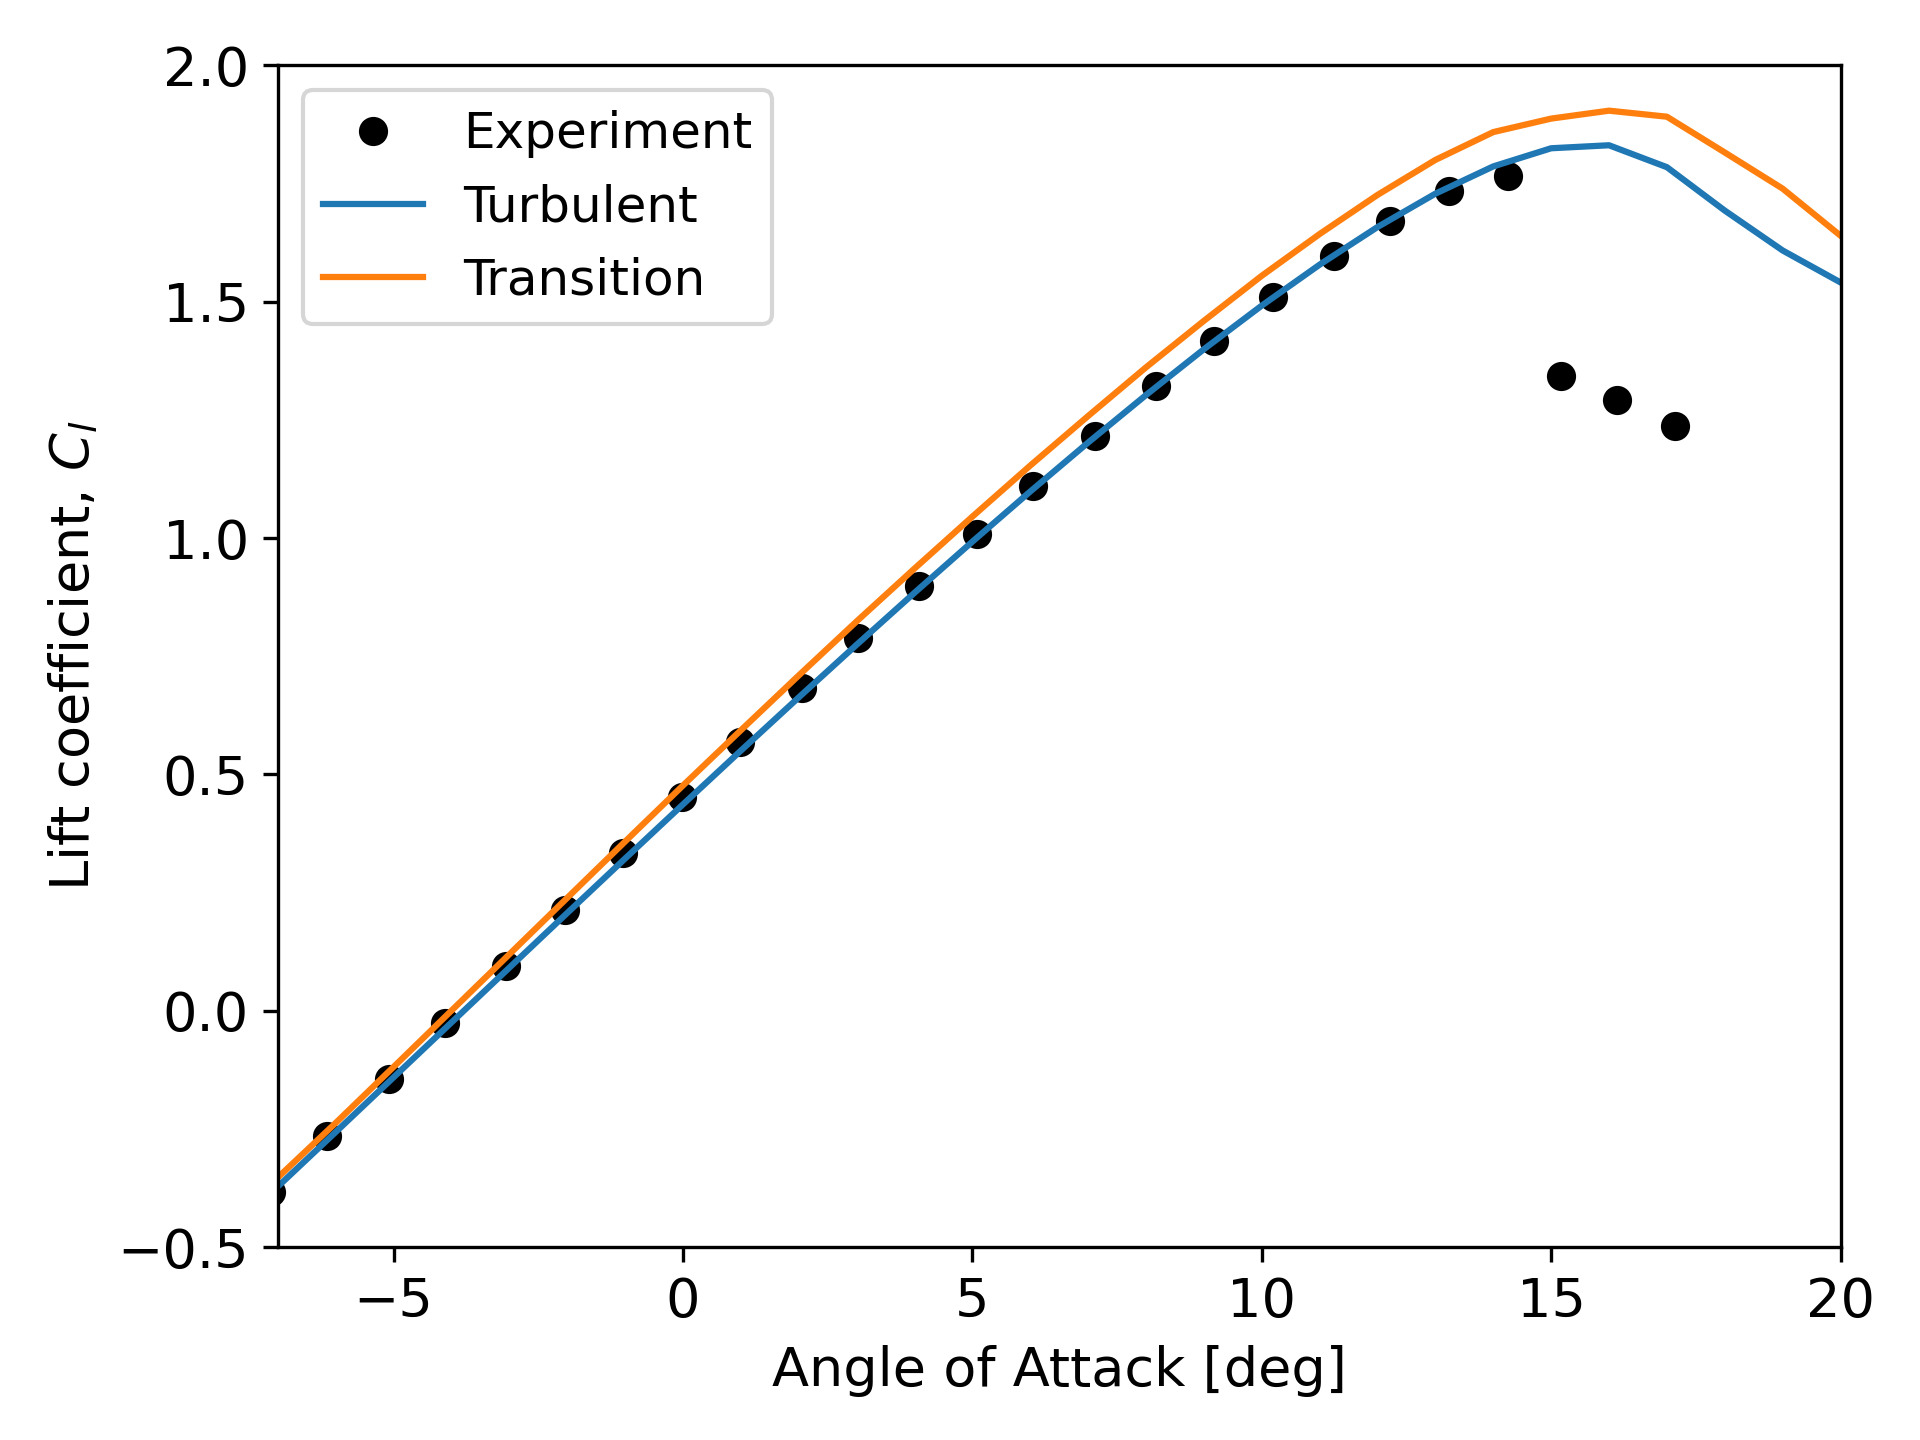
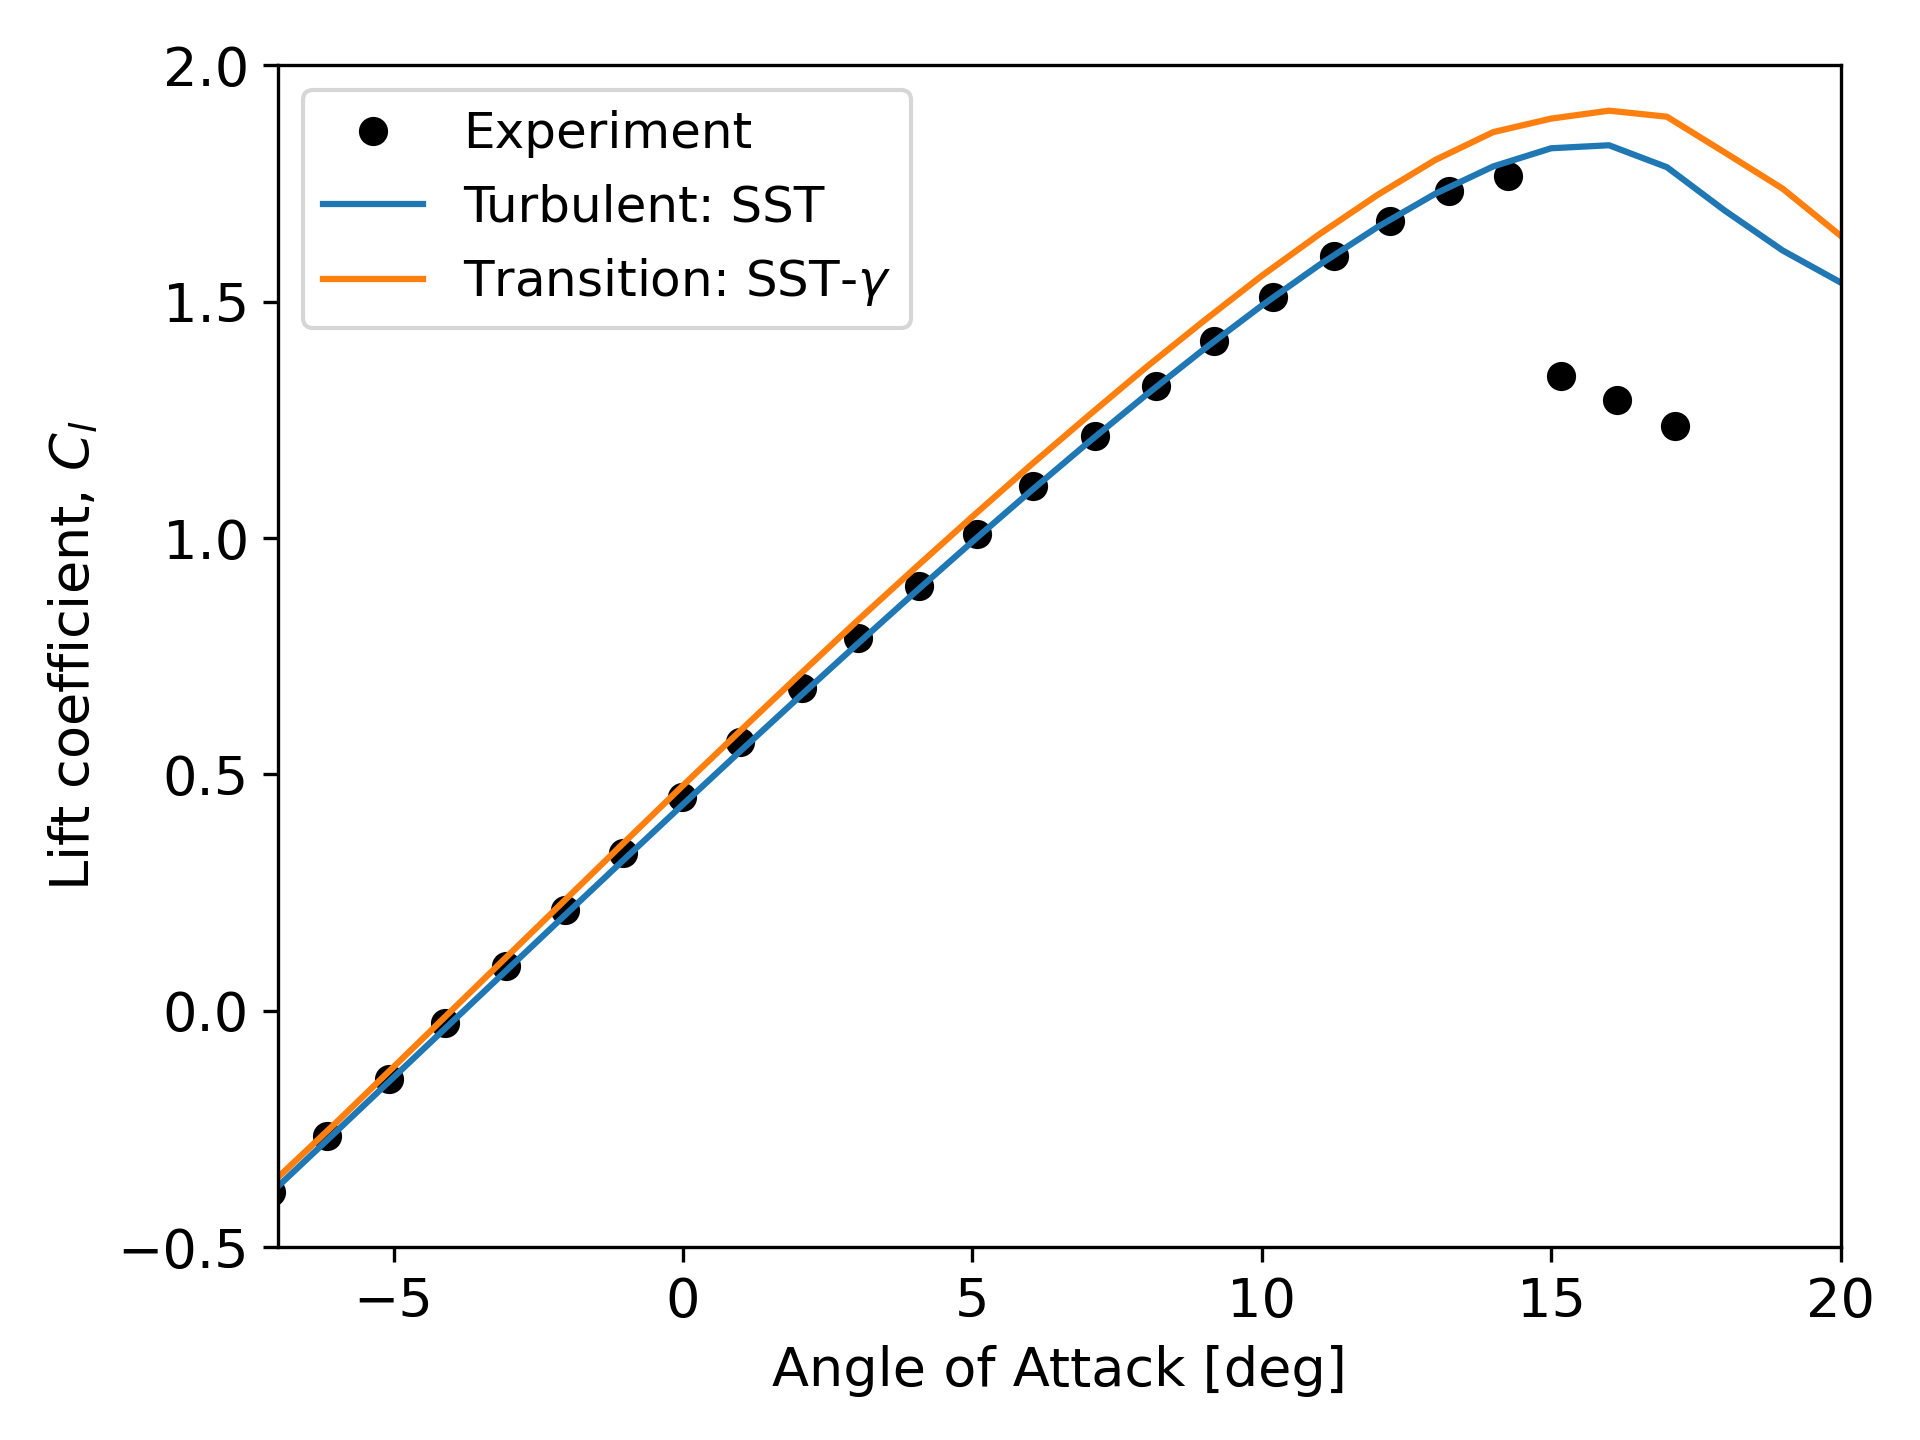
nlf-0416

Changed region(s): [[0.1562, 0.125, 0.4688, 0.25]]

diff --git a/nalu-wind/2D_airfoils_Transition/1_NLF1-0416/figs/clcd/clcd_4M_fine.py b/nalu-wind/2D_airfoils_Transition/1_NLF1-0416/figs/clcd/clcd_4M_fine.py
@@ -36,7 +36,7 @@ plt.xlim([-7,20])
 plt.ylim([-0.5,2.0])
 plt.xlabel('Angle of Attack [deg]')
 plt.ylabel('Lift coefficient, $C_{l}$')
-plt.legend(['Experiment','Turbulent','Transition'])
+plt.legend(['Experiment','Turbulent: SST','Transition: SST-$\gamma$'])
 plt.tight_layout()
 plt.savefig("nlf0416_al_cl.png",dpi=300)
 
@@ -48,7 +48,7 @@ plt.xlim([0.0,0.025])
 plt.ylim([-0.5,2.0])
 plt.xlabel('Drag coefficient, $C_{d}$')
 plt.ylabel('Lift coefficient, $C_{l}$')
-plt.legend(['Experiment','Turbulent','Transition'])
+plt.legend(['Experiment','Turbulent: SST','Transition: SST-$\gamma$'])
 plt.tight_layout()
 plt.savefig("nlf0416_cd_cl.png",dpi=300)
 

diff --git a/nalu-wind/2D_airfoils_Transition/1_NLF1-0416/README.md b/nalu-wind/2D_airfoils_Transition/1_NLF1-0416/README.md
@@ -2,19 +2,18 @@
 
 # NASA NLF(1)-0416
 
-Validation and verification of the transition model is performed for NASA NLF(1)-0416 airfoil using Nalu-Wind with the 1-eq gamma transition model.
-Six different mesh resolutions were tested, and the results were compared to those from NASA’s structred flow solver, OVERFLOW[^1], and unstructred flow solver, FUN3D[^2], using the same turbulence and transition models, CFD meshes, and inflow conditions.
+Validation and verification of the transition model were conducted for the NASA NLF(1)-0416 airfoil using Nalu-Wind with the 1-equation gamma transition model. First, a grid sensitivity study was performed using six different mesh resolutions from the AIAA CFD Transition Modeling DG[^1]. The results were compared to those from NASA’s structured flow solver, OVERFLOW[^2], and unstructured flow solver, FUN3D[^3], utilizing the same turbulence and transition models, CFD meshes, and inflow conditions. Based on these findings, a full angle-of-attack sweep was performed, with results compared to experimental data.
 
 ## Simulation Conditions
 
 - Test airfoil: NASA NLF(1)-0416 airfoil
 - Flow Condition: M=0.1, Re=4million, Tu=0.15%
-- CFD meshes with six different resoltuions provided by [AIAA CFD Transition Modeeling DG](https://transitionmodeling.larc.nasa.gov/) 
-	-- Tiny, Coarse, Medium, Fine, Extra, Ultra[^3]
+- CFD meshes with six different resoltuions provided by [AIAA CFD Transition Modeling DG](https://transitionmodeling.larc.nasa.gov/) 
+ - Tiny, Coarse, Medium, Fine, Extra, Ultra[^4]
 - Turbulence / Transition model: SST-2003 with the 1-eq Gamma transition model with µt/µ=1
 - Nalu-Wind version: [6155b17fa6b8914a819a492230c96f7990a97b78](https://github.com/Exawind/nalu-wind/commit/6155b17fa6b8914a819a492230c96f7990a97b78)
 
-## Results: Grid Sensitivity 
+## Results: Grid Sensitivity Study
 
 ### Lift coefficient at AoA=5deg: 
 <img src="figs/aoa5/nlf0416_aoa5_cl.png" alt="Cf" width="400">
@@ -30,7 +29,7 @@ The grid sensitivitiy results are presented for the lift and drag coefficient. I
 
 Option 2, which applies a constant turbulence intensity, improves grid convergence, particularly at lower mesh resolutions. For more consistent and accurate results with Nalu-Wind, Option 2 is recommended. However, it should be noted that Option 2 is valid only for single airfoil or single turbine simulations. For internal flow or multi-turbine cases, Option 1 should be used. Option 2 is activated only if fsti is explicitly specified in the Nalu-Wind input with a positive value.
 
-## Results: AoA Sweep
+## Results: Angle of Attack Sweep
 
 ### Comparison of the lift coefficient
 <img src="figs/clcd/nlf0416_al_cl.png" alt="Cf" width="400">
@@ -38,13 +37,16 @@ Option 2, which applies a constant turbulence intensity, improves grid convergen
 ### Comparison of the drag polar 
 <img src="figs/clcd/nlf0416_cd_cl.png" alt="Cf" width="400">
 
-Based on the grid sensitivity results, a full sweep of angles of attack was performed using the Fine mesh level. The two figures above compare the lift and drag polar with the experimental measurements[^4]. For the lift, the transition simulation slightly over-predicts the lift coefficient in the linear range of the lift curve, a similar behavior also observed in transition predictions using other transition models. For the drag polar, the transition simulation predicts lower drag across the range of angles of attack than the fully turbulent simulation, capturing the trend of the experimental data very well.
+Based on the grid sensitivity results, a full sweep of angles of attack was performed using the Fine mesh level. The two figures above compare the lift and drag polar with the experimental measurements[^5]. For the lift, the transition simulation slightly over-predicts the lift coefficient in the linear range of the lift curve, a similar behavior also observed in transition predictions using other transition models. For the drag polar, the transition simulation predicts lower drag across the range of angles of attack than the fully turbulent simulation, capturing the trend of the experimental data very well.
 
+Each case was run on 26 cores of NREL's Kestrel HPC system and took approximately 40 minutes to 10,000 iterations, using 4 Picard iterations per time step.
+Note that the number of cores per case is not based on the scalability of Nalu-Wind but rather to fit 4 cases onto a single node of Kestrel.
 
 ## References
-[^1]: Venkatachari et al., “Implementation and Assessment of Menter’s Galilean-Invariant 𝛾
-Transition Model in OVERFLOW,” AIAA AVIATION 2023 Forum, 2023. https://doi.org/10.2514/6.2023-3533
-[^2]: Hildebrand, et al., “Implementation and Verification of the SST-𝛾 and SA-AFT
-Transition Models in FUN3D,” AIAA AVIATION 2023 Forum, 2023. https://doi.org/10.2514/6.2023-3530.
-[^3]: Coder,J., "Standard Test Cases for Transition Model Verification and Validationin Computational Fluid Dynamics,” 56th AIAA Aerospace Sciences Meeting, January, 2018. https://doi.org/https://doi.org/10.2514/6.2018-0029.
-[^4]: Somers,D.M.,“Design and Experimental Results for a Natural-Laminar-Flow Airfoil for General Aviation Applications,” Tech. Rep. 1861, NASA, 1981.
+[^1]: https://transitionmodeling.larc.nasa.gov/
+[^2]: Venkatachari et al., "Implementation and Assessment of Menter’s Galilean-Invariant 𝛾
+Transition Model in OVERFLOW," AIAA AVIATION 2023 Forum, 2023. https://doi.org/10.2514/6.2023-3533
+[^3]: Hildebrand, et al., "Implementation and Verification of the SST-𝛾 and SA-AFT
+Transition Models in FUN3D," AIAA AVIATION 2023 Forum, 2023. https://doi.org/10.2514/6.2023-3530.
+[^4]: Coder,J., "Standard Test Cases for Transition Model Verification and Validationin Computational Fluid Dynamics," 56th AIAA Aerospace Sciences Meeting, January, 2018. https://doi.org/https://doi.org/10.2514/6.2018-0029.
+[^5]: Somers, D. M., "Design and Experimental Results for a Natural-Laminar-Flow Airfoil for General Aviation Applications," NASA Tech. Rep. 1861, 1981.
